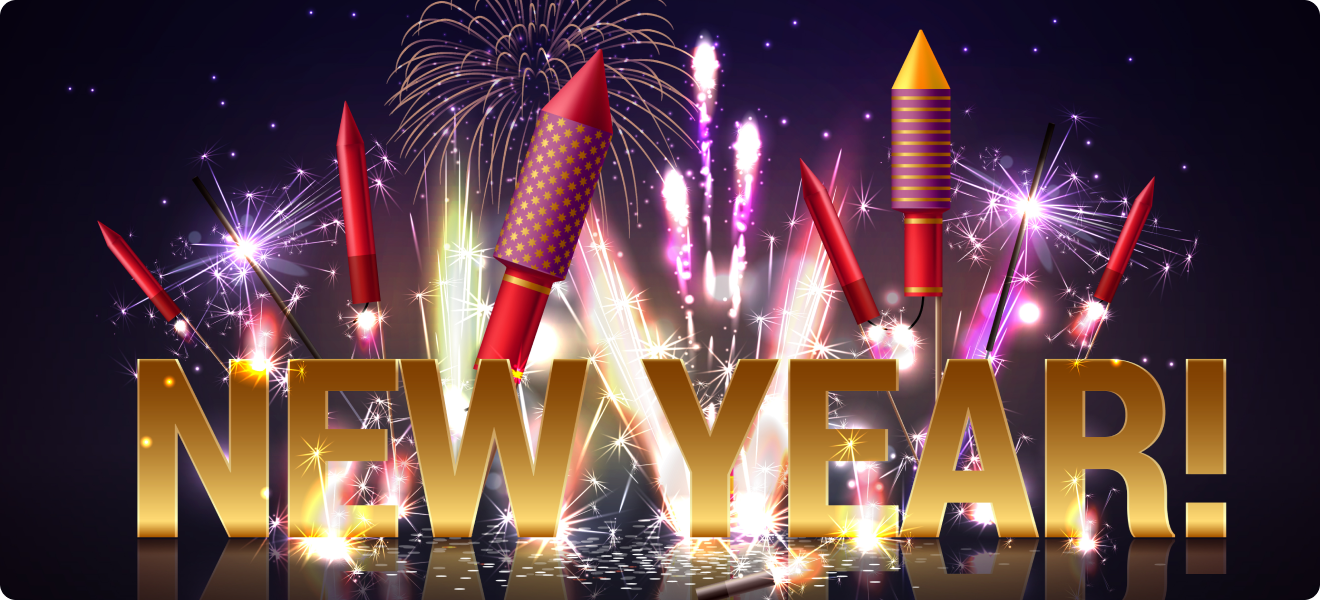
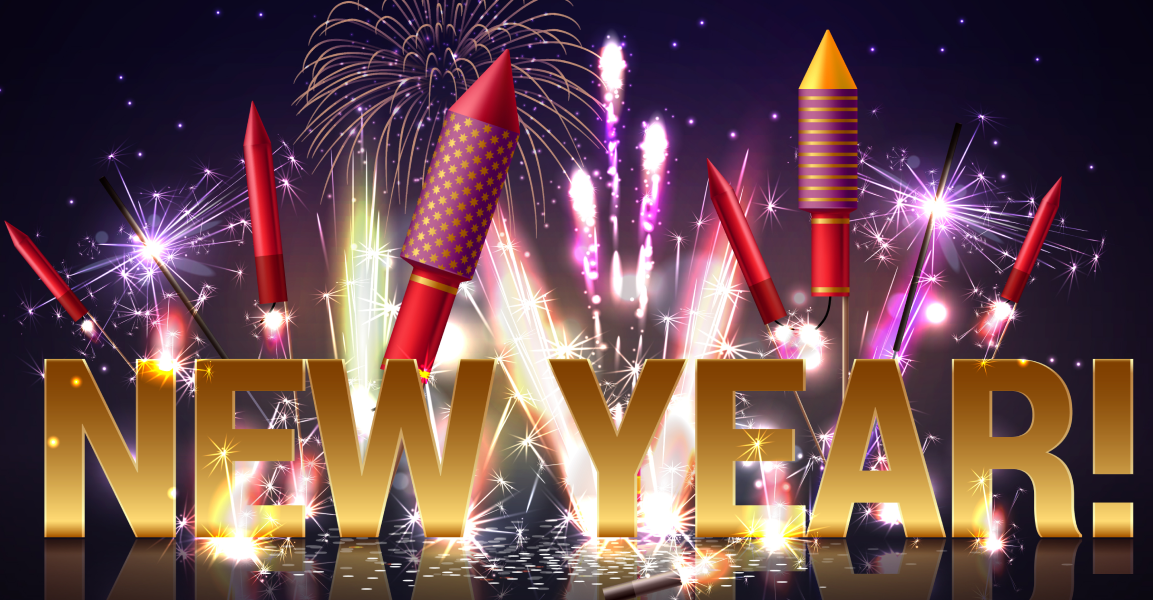
final adding

diff --git a/styles/index.css b/styles/index.css
@@ -6,6 +6,8 @@ main {
 
 .header1 {
     background-image: url('../images/Banner\ Image.png');
+    width: 1200px;
+    height: 600px;
     background-repeat: no-repeat;
     background-size: cover;
     border-radius: 20px;
